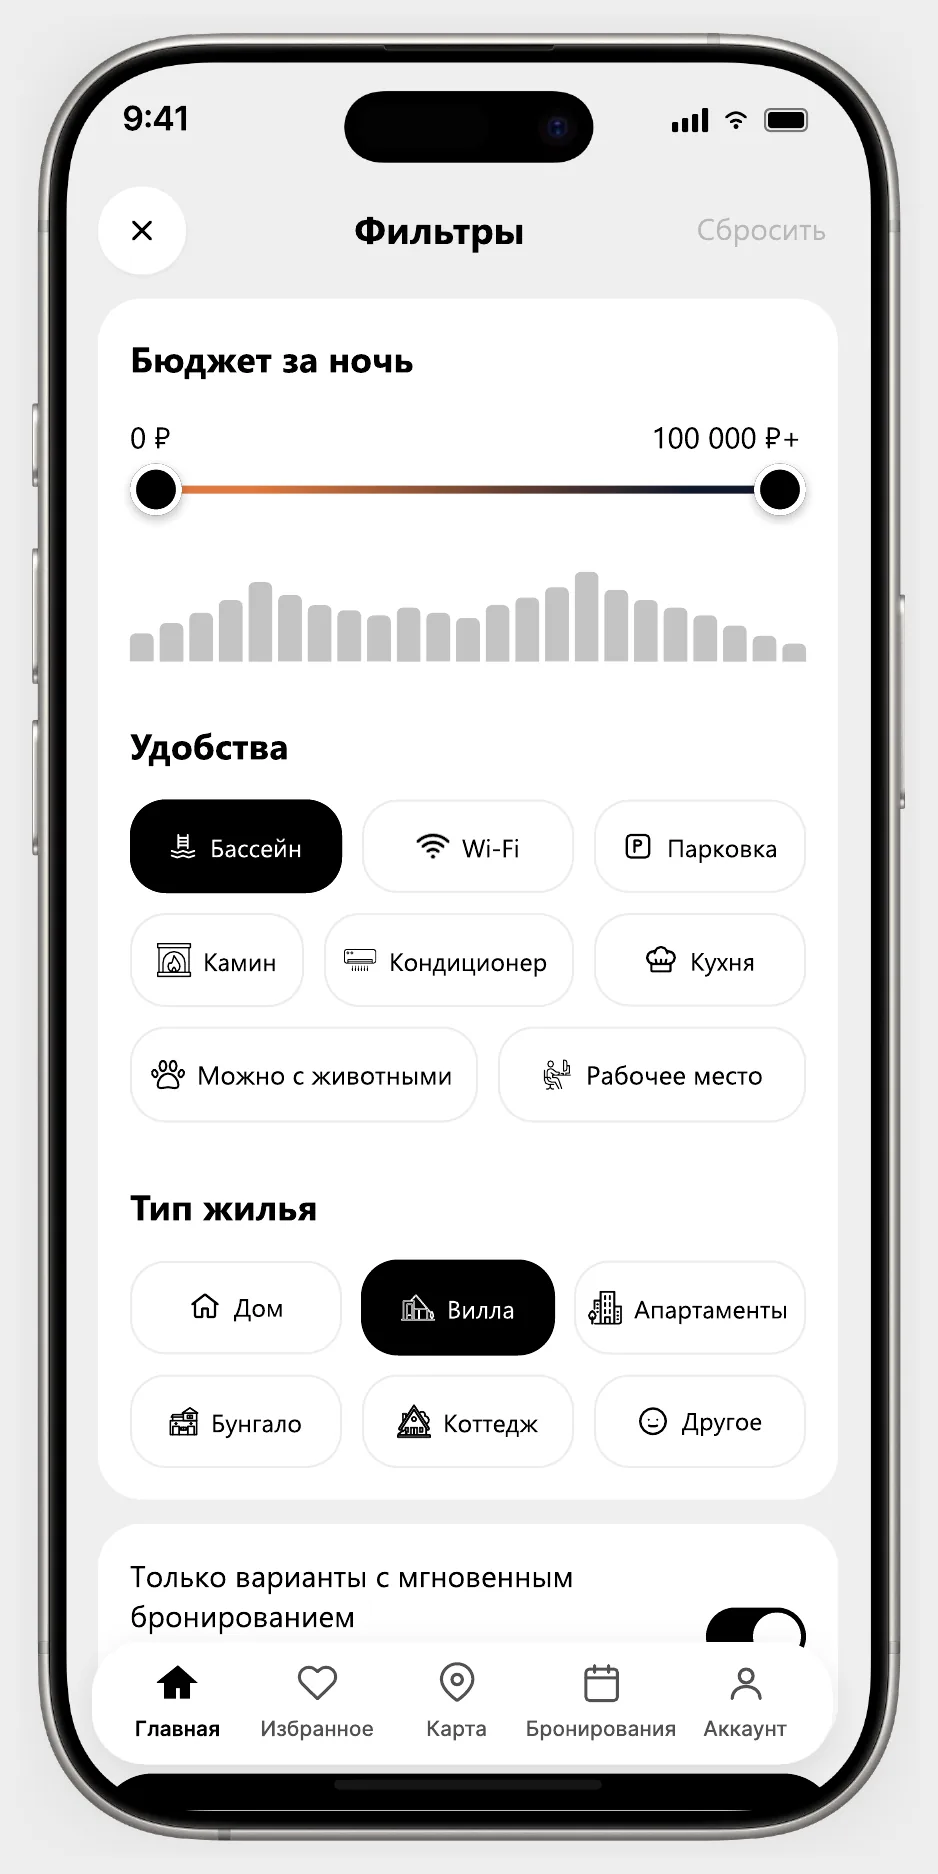
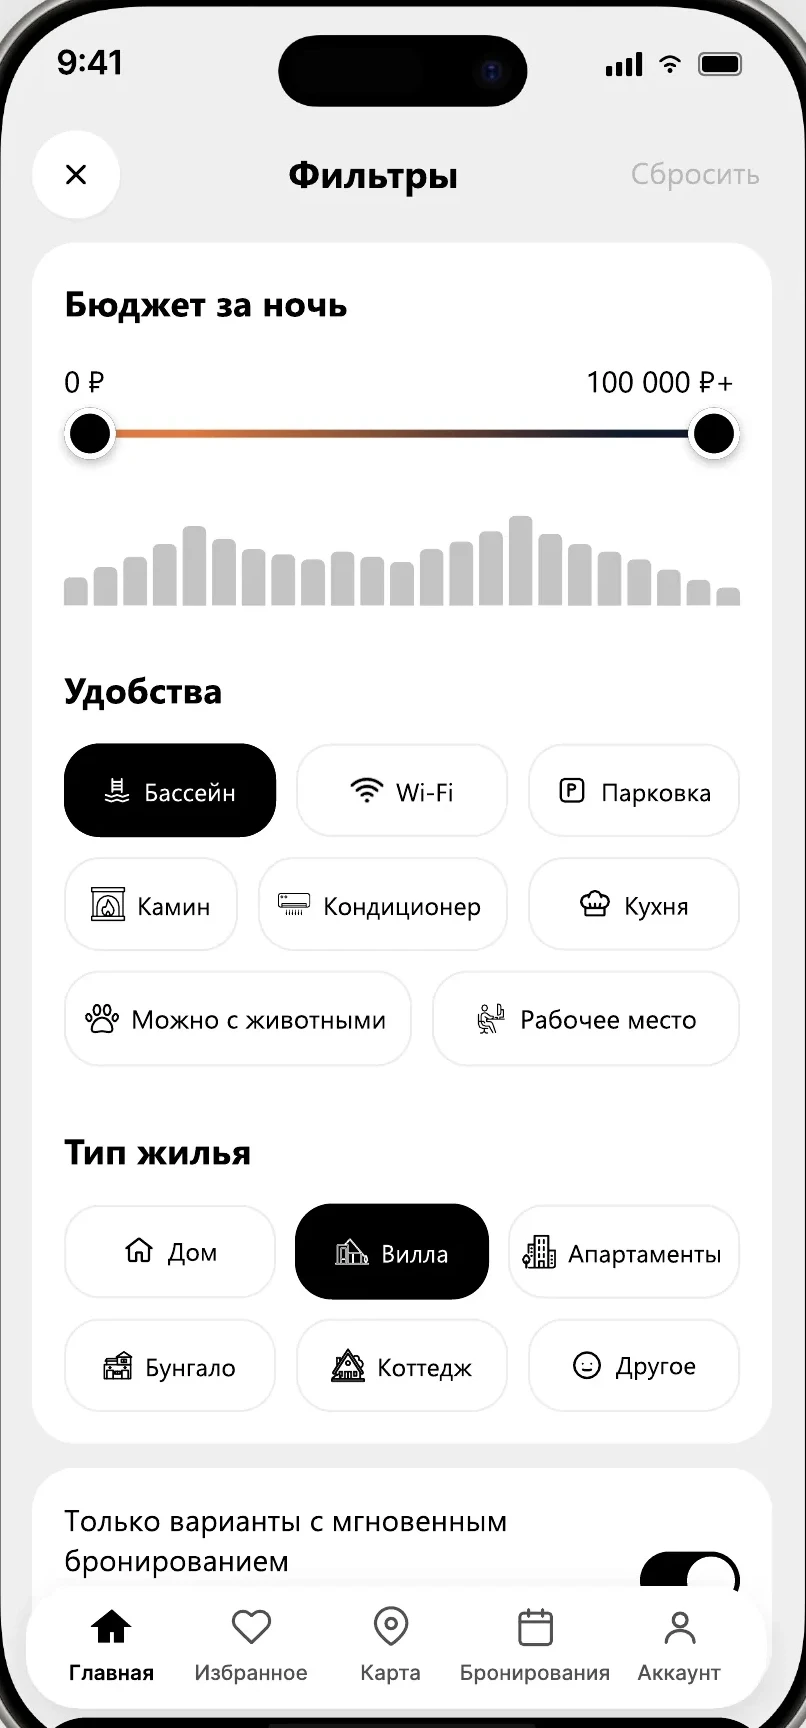
Одинаковые телефоны, значок раскрытия при наведении, плавный низ фото, доп. почта
Claude-Session: https://claude.ai/code/session_01F3YvQhaftnGhsj9cgHaCEe

diff --git a/index.html b/index.html
@@ -138,7 +138,7 @@ h1 {
 .btn.alt { color: var(--ink); }
 .btn.alt:hover { background: var(--glass-2); }
 .me { margin: 0; max-width: 100%; align-self: end; justify-self: center; }
-.me img { width: 100%; max-width: 440px; height: auto; margin-inline: auto; filter: drop-shadow(0 24px 30px rgba(10, 60, 48, 0.28)); }
+.me img { width: 100%; max-width: 440px; height: auto; margin-inline: auto; -webkit-mask-image: linear-gradient(to bottom, #000 78%, transparent 100%); mask-image: linear-gradient(to bottom, #000 78%, transparent 100%); }
 @media (max-width: 860px) {
   .hero-grid { grid-template-columns: minmax(0, 1fr); gap: 36px; }
   .me { max-width: 440px; }
@@ -211,10 +211,14 @@ h2.title { font-family: var(--font-display); font-weight: 700; text-transform: u
 .phone .zoom-btn { aspect-ratio: 5 / 6; }
 .phone .zoom-btn img { object-fit: contain; padding: 16px 0; }
 .plate { position: relative; aspect-ratio: 5 / 6; border-radius: var(--r); background: var(--plate); border: 1px solid var(--glass-border); box-shadow: var(--shadow); display: grid; place-items: center; overflow: hidden; }
-.dev { height: calc(100% - 32px); aspect-ratio: 792 / 1580; border: 7px solid #151716; border-radius: 34px; overflow-y: auto; overflow-x: hidden; background: #EEEEEE; scrollbar-width: none; overscroll-behavior: contain; box-shadow: 0 14px 34px rgba(0, 0, 0, 0.22); }
+.shell { position: relative; height: calc(100% - 32px); aspect-ratio: 806 / 1728; border: 7px solid #151716; border-radius: 44px; background: #000; overflow: hidden; box-shadow: 0 14px 34px rgba(0, 0, 0, 0.22); }
+.dev { height: 100%; overflow-y: auto; overflow-x: hidden; background: #EEEEEE; scrollbar-width: none; overscroll-behavior: contain; }
 .dev::-webkit-scrollbar { display: none; }
-.dev img { width: 100%; height: auto; }
-.zb { position: absolute; top: 12px; right: 12px; z-index: 1; padding: 4px 14px; border-radius: 999px; font-size: 12px; cursor: zoom-in; background: var(--ctrl-hover); border: 1px solid var(--glass-border); }
+.dev img { width: 100%; height: auto; display: block; }
+.isl { position: absolute; top: 2%; left: 34.6%; width: 31%; height: 4.2%; border-radius: 999px; background: #000; pointer-events: none; }
+.zb { position: absolute; top: 12px; right: 12px; z-index: 3; width: 38px; height: 38px; padding: 0; display: grid; place-items: center; border-radius: 50%; cursor: zoom-in; background: var(--ctrl-hover); border: 1px solid var(--glass-border); color: var(--ink); opacity: 0; transition: opacity 0.2s ease; -webkit-backdrop-filter: blur(12px); backdrop-filter: blur(12px); }
+.plate:hover .zb, .zb:focus-visible { opacity: 1; }
+@media (hover: none) { .zb { opacity: 0.9; } }
 .tile .zoom-btn { aspect-ratio: 5 / 4; }
 .tile .zoom-btn img { object-fit: cover; }
 .zoom-btn:hover { filter: brightness(1.02); }
@@ -361,16 +365,12 @@ body { margin: 0; }
         </ul>
       </div>
       <div class="rail" aria-label="Экраны приложения">
-        <figure class="phone"><button type="button" class="zoom-btn" data-src="img/c1-01.webp" data-cap="Главная"><img src="img/c1-01.webp" width="938" height="1874" loading="lazy" alt="Экран приложения: главная"></button><figcaption>Главная</figcaption></figure>
-        <figure class="phone"><div class="plate"><div class="dev" tabindex="0" aria-label="Экран прокручивается"><img src="img/c1-02.webp" width="792" height="2588" loading="lazy" alt="Экран приложения: главная страница целиком"></div><button type="button" class="zoom-btn-bar zb" data-long="1" data-src="img/c1-02.webp" data-cap="Главная, вся страница">Крупно</button></div><figcaption>Главная, вся страница</figcaption></figure>
-        <figure class="phone"><button type="button" class="zoom-btn" data-src="img/c1-03.webp" data-cap="Фильтры"><img src="img/c1-03.webp" width="938" height="1874" loading="lazy" alt="Экран приложения: фильтры"></button><figcaption>Фильтры</figcaption></figure>
-        <figure class="phone"><button type="button" class="zoom-btn" data-src="img/c1-04.webp" data-cap="Карта и список"><img src="img/c1-04.webp" width="938" height="1874" loading="lazy" alt="Экран приложения: карта со списком вариантов"></button><figcaption>Карта и список</figcaption></figure>
-        <figure class="phone"><button type="button" class="zoom-btn" data-src="img/c1-05.webp" data-cap="Карточка объекта"><img src="img/c1-05.webp" width="938" height="1874" loading="lazy" alt="Экран приложения: карточка объекта"></button><figcaption>Карточка объекта</figcaption></figure>
-        <figure class="phone"><div class="plate"><div class="dev" tabindex="0" aria-label="Экран прокручивается"><img src="img/c1-06.webp" width="792" height="2264" loading="lazy" alt="Экран приложения: карточка объекта целиком"></div><button type="button" class="zoom-btn-bar zb" data-long="1" data-src="img/c1-06.webp" data-cap="Карточка объекта, вся страница">Крупно</button></div><figcaption>Карточка объекта, вся страница</figcaption></figure>
-        <figure class="phone"><button type="button" class="zoom-btn" data-src="img/c1-07.webp" data-cap="Выбор дат"><img src="img/c1-07.webp" width="938" height="1874" loading="lazy" alt="Экран приложения: выбор дат в календаре"></button><figcaption>Выбор дат</figcaption></figure>
-        <figure class="phone"><div class="plate"><div class="dev" tabindex="0" aria-label="Экран прокручивается"><img src="img/c1-08.webp" width="792" height="2512" loading="lazy" alt="Экран приложения: даты, детали и оплата"></div><button type="button" class="zoom-btn-bar zb" data-long="1" data-src="img/c1-08.webp" data-cap="Даты и оплата">Крупно</button></div><figcaption>Даты и оплата</figcaption></figure>
-        <figure class="phone"><div class="plate"><div class="dev" tabindex="0" aria-label="Экран прокручивается"><img src="img/c1-09.webp" width="792" height="2886" loading="lazy" alt="Экран приложения: аккаунт целиком"></div><button type="button" class="zoom-btn-bar zb" data-long="1" data-src="img/c1-09.webp" data-cap="Аккаунт, вся страница">Крупно</button></div><figcaption>Аккаунт, вся страница</figcaption></figure>
-        <figure class="phone"><button type="button" class="zoom-btn" data-src="img/c1-10.webp" data-cap="Аккаунт"><img src="img/c1-10.webp" width="938" height="1874" loading="lazy" alt="Экран приложения: аккаунт"></button><figcaption>Аккаунт</figcaption></figure>
+        <figure class="phone"><div class="plate"><div class="shell"><div class="dev long" tabindex="0" aria-label="Экран прокручивается"><img src="img/c1-02.webp" width="792" height="2588" loading="lazy" alt="Экран приложения: главная"></div><i class="isl"></i></div><button type="button" class="zoom-btn-bar zb" aria-label="Открыть крупнее" data-long="1" data-src="img/c1-02.webp" data-cap="Главная"><svg width="16" height="16" viewBox="0 0 16 16" aria-hidden="true"><path d="M9.5 2H14v4.5M6.5 14H2V9.5M14 2 9 7M2 14l5-5" fill="none" stroke="currentColor" stroke-width="1.6" stroke-linecap="round" stroke-linejoin="round"/></svg></button></div><figcaption>Главная · прокручивается</figcaption></figure>
+        <figure class="phone"><div class="plate"><div class="shell"><div class="dev"><img src="img/c1-03.webp" width="806" height="1728" loading="lazy" alt="Экран приложения: фильтры"></div></div><button type="button" class="zoom-btn-bar zb" aria-label="Открыть крупнее" data-src="img/c1-03.webp" data-cap="Фильтры"><svg width="16" height="16" viewBox="0 0 16 16" aria-hidden="true"><path d="M9.5 2H14v4.5M6.5 14H2V9.5M14 2 9 7M2 14l5-5" fill="none" stroke="currentColor" stroke-width="1.6" stroke-linecap="round" stroke-linejoin="round"/></svg></button></div><figcaption>Фильтры</figcaption></figure>
+        <figure class="phone"><div class="plate"><div class="shell"><div class="dev"><img src="img/c1-04.webp" width="806" height="1728" loading="lazy" alt="Экран приложения: карта со списком вариантов"></div></div><button type="button" class="zoom-btn-bar zb" aria-label="Открыть крупнее" data-src="img/c1-04.webp" data-cap="Карта и список"><svg width="16" height="16" viewBox="0 0 16 16" aria-hidden="true"><path d="M9.5 2H14v4.5M6.5 14H2V9.5M14 2 9 7M2 14l5-5" fill="none" stroke="currentColor" stroke-width="1.6" stroke-linecap="round" stroke-linejoin="round"/></svg></button></div><figcaption>Карта и список</figcaption></figure>
+        <figure class="phone"><div class="plate"><div class="shell"><div class="dev long" tabindex="0" aria-label="Экран прокручивается"><img src="img/c1-06.webp" width="792" height="2264" loading="lazy" alt="Экран приложения: карточка объекта"></div><i class="isl"></i></div><button type="button" class="zoom-btn-bar zb" aria-label="Открыть крупнее" data-long="1" data-src="img/c1-06.webp" data-cap="Карточка объекта"><svg width="16" height="16" viewBox="0 0 16 16" aria-hidden="true"><path d="M9.5 2H14v4.5M6.5 14H2V9.5M14 2 9 7M2 14l5-5" fill="none" stroke="currentColor" stroke-width="1.6" stroke-linecap="round" stroke-linejoin="round"/></svg></button></div><figcaption>Карточка объекта · прокручивается</figcaption></figure>
+        <figure class="phone"><div class="plate"><div class="shell"><div class="dev long" tabindex="0" aria-label="Экран прокручивается"><img src="img/c1-08.webp" width="792" height="2512" loading="lazy" alt="Экран приложения: выбор дат и оплата"></div><i class="isl"></i></div><button type="button" class="zoom-btn-bar zb" aria-label="Открыть крупнее" data-long="1" data-src="img/c1-08.webp" data-cap="Даты и оплата"><svg width="16" height="16" viewBox="0 0 16 16" aria-hidden="true"><path d="M9.5 2H14v4.5M6.5 14H2V9.5M14 2 9 7M2 14l5-5" fill="none" stroke="currentColor" stroke-width="1.6" stroke-linecap="round" stroke-linejoin="round"/></svg></button></div><figcaption>Даты и оплата · прокручивается</figcaption></figure>
+        <figure class="phone"><div class="plate"><div class="shell"><div class="dev long" tabindex="0" aria-label="Экран прокручивается"><img src="img/c1-09.webp" width="792" height="2886" loading="lazy" alt="Экран приложения: аккаунт"></div><i class="isl"></i></div><button type="button" class="zoom-btn-bar zb" aria-label="Открыть крупнее" data-long="1" data-src="img/c1-09.webp" data-cap="Аккаунт"><svg width="16" height="16" viewBox="0 0 16 16" aria-hidden="true"><path d="M9.5 2H14v4.5M6.5 14H2V9.5M14 2 9 7M2 14l5-5" fill="none" stroke="currentColor" stroke-width="1.6" stroke-linecap="round" stroke-linejoin="round"/></svg></button></div><figcaption>Аккаунт · прокручивается</figcaption></figure>
       </div>
     </div>
   </section>
@@ -480,7 +480,7 @@ body { margin: 0; }
       <ul class="contacts">
         <li><span class="label">Telegram</span><a class="tg" href="https://t.me/savvage22" target="_blank" rel="noopener">@savvage22</a></li>
         <li><span class="label">Основная почта</span><div class="mail"><code>makarovey22@gmail.com</code><button type="button" data-copy="makarovey22@gmail.com">Скопировать</button></div></li>
-        <li><span class="label">Почта</span><div class="mail"><code>makarovegorr22@mail.ru</code><button type="button" data-copy="makarovegorr22@mail.ru">Скопировать</button></div></li>
+        <li><span class="label">Дополнительная почта</span><div class="mail"><code>makarovegorr22@mail.ru</code><button type="button" data-copy="makarovegorr22@mail.ru">Скопировать</button></div></li>
       </ul>
     </div>
   </div>
